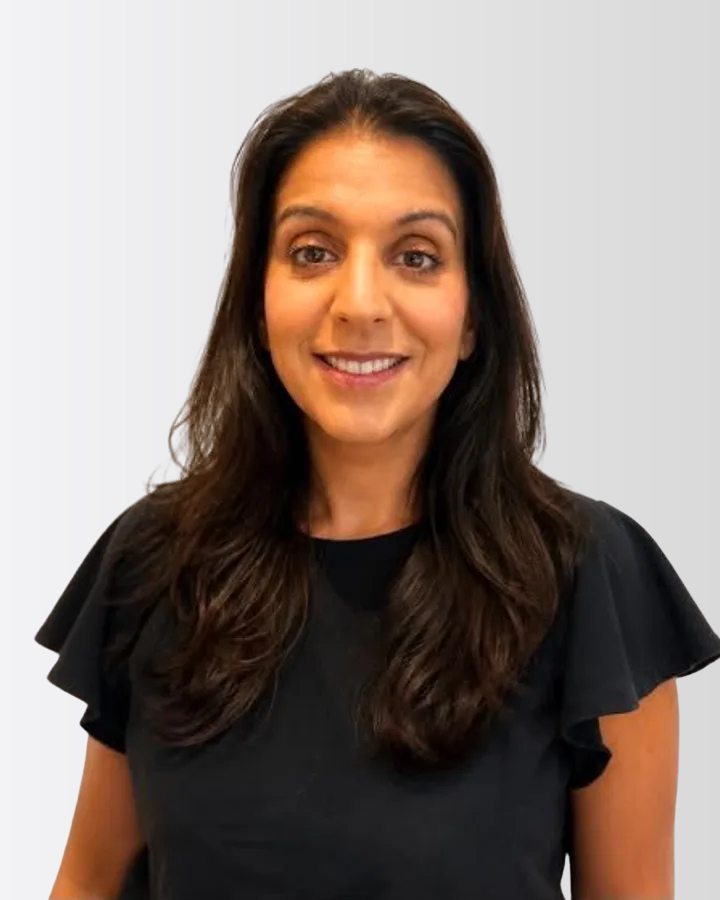
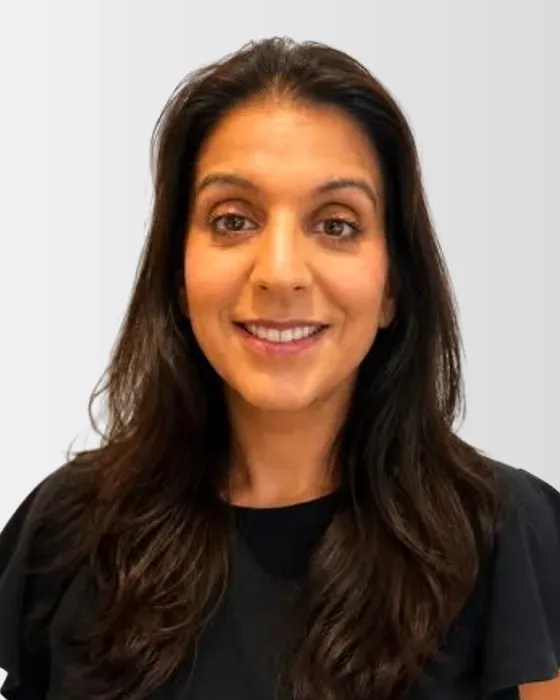
Contact us button in the mobile header; new Dr Sumar photo
- The Contact us button now shows in the header on mobile as well as
  desktop, sitting beside the menu button.
- Header spacing tightened on mobile: smaller logo, buttons and icons with
  narrower gaps, plus a tier for phones under 360px. The call icon gives up
  its place once the Book button appears on scroll, and on the narrowest
  phones; the number stays in the menu.
- Dr Natasha Sumar's headshot replaced with the newly supplied portrait.

Claude-Session: https://claude.ai/code/session_01BfDfekHkooqy5vkZfJmkhr

diff --git a/public/assets/css/styles.css b/public/assets/css/styles.css
@@ -133,8 +133,31 @@ section[id], article[id] { scroll-margin-top: calc(var(--header-h) + 0.75rem); }
 .header-book, .header-contact { display: none; }
 
 @media (max-width: 899px) {
+  .header-inner { gap: 0.5rem; }
+  .brand img { height: 36px; }
+  .header-actions { gap: 0.4rem; }
+  .icon-btn { width: 40px; height: 40px; }
+  .icon-btn svg { width: 20px; height: 20px; }
+  /* Contact us sits in the header on mobile too, sized to fit beside the menu */
+  .header-contact { display: inline-flex; min-height: 2.4rem; padding: 0.45rem 0.85rem; font-size: 0.78rem; letter-spacing: 0.03em; text-transform: uppercase; border-width: 0; }
   .header.is-scrolled .brand { display: none; }
-  .header.is-scrolled .header-book-mobile { display: inline-flex; min-height: 2.75rem; padding: 0.5rem 1.1rem; font-size: 0.85rem; }
+  .header.is-scrolled .header-book-mobile { display: inline-flex; min-height: 2.4rem; padding: 0.45rem 0.85rem; font-size: 0.78rem; letter-spacing: 0.03em; text-transform: uppercase; }
+  /* Once Book appears there is no room for the call icon; the menu keeps the number */
+  .header.is-scrolled .icon-btn[href^="tel:"] { display: none; }
+}
+@media (max-width: 420px) {
+  .brand img { height: 32px; }
+  .header-contact, .header.is-scrolled .header-book-mobile { padding: 0.45rem 0.7rem; font-size: 0.72rem; }
+  .icon-btn { width: 36px; height: 36px; }
+}
+@media (max-width: 359px) {
+  /* Narrowest phones: keep Contact us and the menu, the number stays in the menu */
+  .icon-btn[href^="tel:"] { display: none; }
+  .header-contact, .header.is-scrolled .header-book-mobile { padding: 0.4rem 0.45rem; font-size: 0.63rem; letter-spacing: 0; }
+  .header-inner { gap: 0.35rem; }
+  .header-actions { gap: 0.3rem; }
+  .icon-btn { width: 32px; height: 32px; }
+  .icon-btn svg { width: 18px; height: 18px; }
 }
 @media (min-width: 900px) {
   .brand img { height: 46px; }
